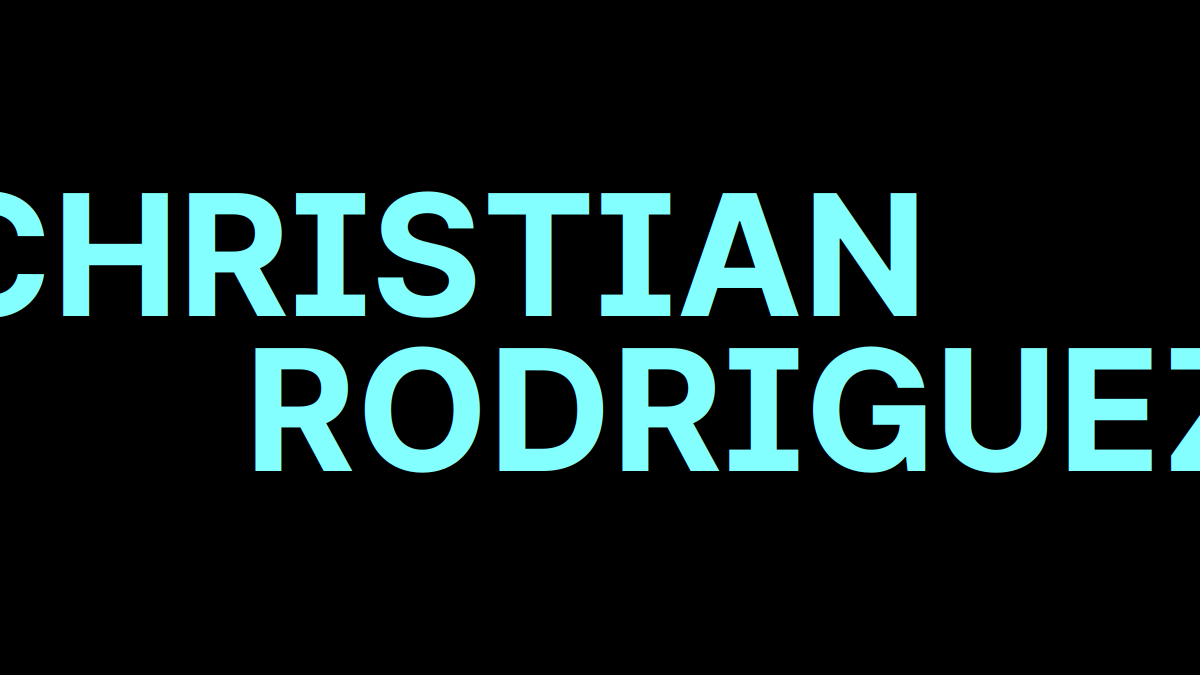
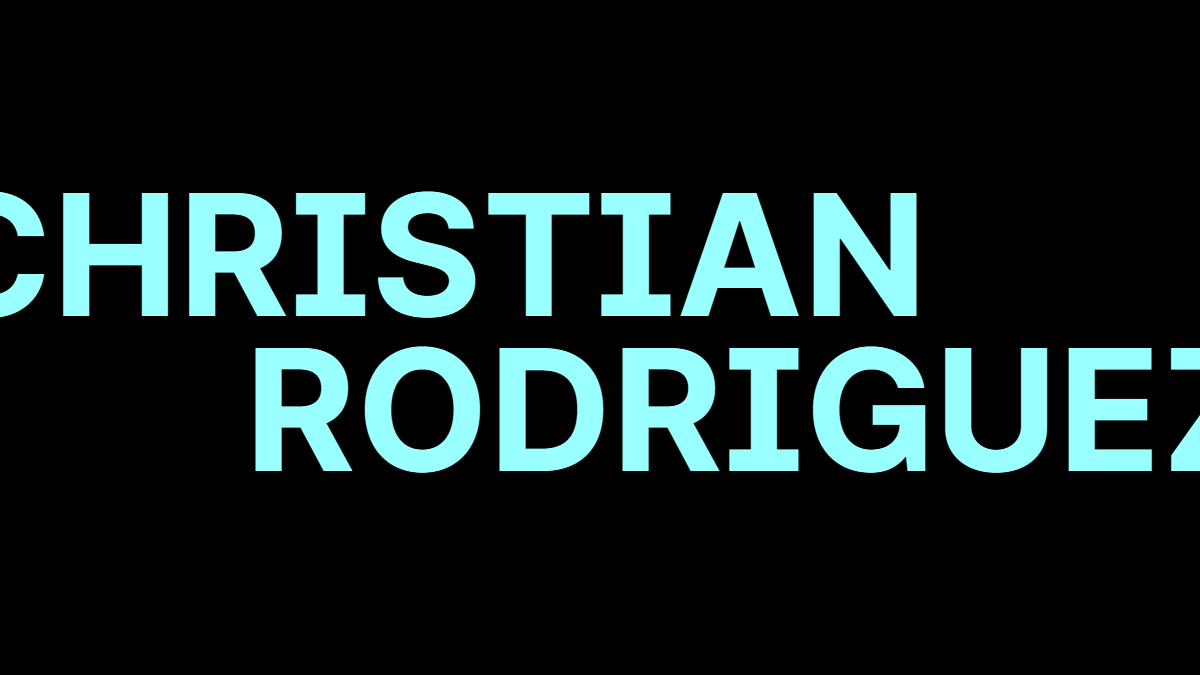
Convert colours to HSL and add VS Code files

diff --git a/styles/globals.css b/styles/globals.css
@@ -1,1 +1,1 @@
-@import"https://cdn.jsdelivr.net/npm/modern-normalize/modern-normalize.min.css";@import"https://rsms.me/inter/inter.css";.cr-background{color:#000}.cr-background-alt{color:#101010}.cr-accent{color:#84ffff}.cr-highlight{color:#00e676}.cr-grey{color:#aaa}.cr-red{color:#ff8a80}.cr-orange{color:#ffd180}.cr-yellow{color:#ffff8d}.cr-green{color:#b9f6ca}.cr-blue{color:#80d8ff}.cr-purple{color:#b388ff}.cr-disabled{color:#444}:root{font-family:"Inter",sans-serif}@supports(font-variation-settings: normal){:root{font-family:"Inter var",sans-serif}}body{background-color:#000;color:#fff;padding:25px;font-feature-settings:"ss01","ss03","ss04","cv01","cv10"}h1,h2,h3,h4,h5,h6{font-weight:bold;color:#84ffff}a{color:#fff}a:hover{color:#84ffff}abbr:hover{cursor:help}hr{border:1px solid #fff}figure{max-width:100%;display:block;margin-left:auto;margin-right:auto;flex-flow:column}figcaption{text-align:center;font-style:italic;font-size:small;padding:3px}img.cr-image{display:block;margin-left:auto;margin-right:auto;max-width:100%;margin-bottom:5px}.cr-wrapper{max-width:825px;margin:auto}.cr-list{margin:auto;text-align:justify;text-justify:inter-word}.cr-footer{color:#fff;padding:15px;padding-top:20px;padding-bottom:1px;margin-top:30px;margin-bottom:20px;text-decoration:none;display:inline-block;width:100%;border-top:2px solid #fff}.cr-link-external::after{font-family:"tabler-icons";font-style:normal;font-weight:400;content:" "}.cr-block{background-color:#101010;padding:15px;margin-top:20px;margin-bottom:20px;text-decoration:none;display:inline-block;width:100%;border-radius:0px}.cr-site-name{font-size:32pt;font-weight:400}.cr-footnote{font-size:small}.cr-cc-icon{font-size:22pt;user-select:none}.cr-paragraph{color:#fff;margin-bottom:4px;display:inline-block;width:100%}.cr-button{background-color:#fff;color:#000;padding:15px;margin-top:20px;margin-bottom:20px;text-decoration:none;display:inline-block;width:100%;border-radius:0px}.cr-button:hover{background-color:#84ffff;color:#000}.cr-button-icon{float:right}.cr-header{color:#84ffff;font-size:x-large;font-weight:normal;margin:35px 0px 30px 0px}.cr-header-image{width:32px;height:32px;margin-bottom:16px}.cr-notice{background:repeating-linear-gradient(-45deg, #c62828, #c62828 10px, #b71c1c 10px, #b71c1c 20px);color:#fff;padding:15px;margin-top:20px;margin-bottom:20px;display:inline-block;width:100%}.cr-notice-title{color:#fff}.cr-header-link{text-decoration:none;color:#84ffff}.cr-a11y-icon{float:right;color:#84ffff}.cr-a11y-desc{clip:rect(0 0 0 0);clip-path:inset(50%);height:1px;overflow:hidden;position:absolute;white-space:nowrap;width:1px}:focus-visible{outline:#00e676 dashed 5px}/*# sourceMappingURL=globals.css.map */
+@import"https://cdn.jsdelivr.net/npm/modern-normalize/modern-normalize.min.css";@import"https://rsms.me/inter/inter.css";.cr-background{color:#000}.cr-background-alt{color:#0d0d0d}.cr-accent{color:#9ff}.cr-highlight{color:#00e639}.cr-grey{color:#a6a6a6}.cr-red{color:#f99}.cr-orange{color:#fc9}.cr-yellow{color:#ff9}.cr-green{color:#a5f3b8}.cr-blue{color:#99b3ff}.cr-purple{color:#c9f}.cr-disabled{color:#404040}:root{font-family:"Inter",sans-serif}@supports(font-variation-settings: normal){:root{font-family:"Inter var",sans-serif}}body{background-color:#000;color:#fff;padding:25px;font-feature-settings:"ss01","ss03","ss04","cv01","cv10"}h1,h2,h3,h4,h5,h6{font-weight:bold;color:#9ff}a{color:#fff}a:hover{color:#9ff}abbr:hover{cursor:help}hr{border:1px solid #fff}figure{max-width:100%;display:block;margin-left:auto;margin-right:auto;flex-flow:column}figcaption{text-align:center;font-style:italic;font-size:small;padding:3px}img.cr-image{display:block;margin-left:auto;margin-right:auto;max-width:100%;margin-bottom:5px}.cr-wrapper{max-width:825px;margin:auto}.cr-list{margin:auto;text-align:justify;text-justify:inter-word}.cr-footer{color:#fff;padding:15px;padding-top:20px;padding-bottom:1px;margin-top:30px;margin-bottom:20px;text-decoration:none;display:inline-block;width:100%;border-top:2px solid #fff}.cr-link-external::after{font-family:"tabler-icons";font-style:normal;font-weight:400;content:" "}.cr-block{background-color:#0d0d0d;padding:15px;margin-top:20px;margin-bottom:20px;text-decoration:none;display:inline-block;width:100%;border-radius:0px}.cr-site-name{font-size:32pt;font-weight:400}.cr-footnote{font-size:small}.cr-cc-icon{font-size:22pt;user-select:none}.cr-paragraph{color:#fff;margin-bottom:4px;display:inline-block;width:100%}.cr-button{background-color:#fff;color:#000;padding:15px;margin-top:20px;margin-bottom:20px;text-decoration:none;display:inline-block;width:100%;border-radius:0px}.cr-button:hover{background-color:#9ff;color:#000}.cr-button-icon{float:right}.cr-header{color:#9ff;font-size:x-large;font-weight:normal;margin:35px 0px 30px 0px}.cr-header-image{width:32px;height:32px;margin-bottom:16px}.cr-notice{background:repeating-linear-gradient(-45deg, hsl(0, 65%, 35%), hsl(0, 65%, 35%) 10px, hsl(0, 75%, 25%) 10px, hsl(0, 75%, 25%) 20px);color:#fff;padding:15px;margin-top:20px;margin-bottom:20px;display:inline-block;width:100%}.cr-notice-title{color:#fff}.cr-header-link{text-decoration:none;color:#9ff}.cr-a11y-icon{float:right;color:#9ff}.cr-a11y-desc{clip:rect(0 0 0 0);clip-path:inset(50%);height:1px;overflow:hidden;position:absolute;white-space:nowrap;width:1px}:focus-visible{outline:#00e639 dashed 5px}/*# sourceMappingURL=globals.css.map */

diff --git a/styles/src/main.scss b/styles/src/main.scss
@@ -1,55 +1,55 @@
 @import url("https://cdn.jsdelivr.net/npm/modern-normalize/modern-normalize.min.css");
 @import url("https://rsms.me/inter/inter.css");
 
-$bg: #000000;
-$bg2: #101010;
-$accent: #84ffff;
-$highlight: #00e676;
-$fg: #ffffff;
-$grey: #aaaaaa;
-$red: #ff8a80;
-$orange: #ffd180;
-$yellow: #ffff8d;
-$green: #b9f6ca;
-$blue: #80d8ff;
-$purple: #b388ff;
-$disabled: #444444;
+$colour-b1: hsl(0 0% 0%);
+$colour-b2: hsl(0 0% 5%);
+$colour-f1: hsl(0 0% 100%);
+$colour-f2: hsl(180 100% 80%);
+$colour-f3: hsl(135 100% 45%);
+$colour-no: hsl(0 0% 65%);
+$colour-re: hsl(0 100% 80%);
+$colour-or: hsl(30 100% 80%);
+$colour-yl: hsl(60 100% 80%);
+$colour-gr: hsl(135 77% 80%);
+$colour-bl: hsl(225 100% 80%);
+$colour-pr: hsl(270 100% 80%);
+$colour-xx: hsl(0 0% 25%);
 
 .cr-background {
-  color: $bg;
+  color: $colour-b1;
 }
 .cr-background-alt {
-  color: $bg2;
+  color: $colour-b2;
 }
 .cr-accent {
-  color: $accent;
+  color: $colour-f2;
 }
 .cr-highlight {
-  color: $highlight;
+  color: $colour-f3;
 }
 .cr-grey {
-  color: $grey;
+  color: $colour-no;
 }
 .cr-red {
-  color: $red;
+  color: $colour-re;
 }
 .cr-orange {
-  color: $orange;
+  color: $colour-or;
 }
 .cr-yellow {
-  color: $yellow;
+  color: $colour-yl;
 }
 .cr-green {
-  color: $green;
+  color: $colour-gr;
 }
 .cr-blue {
-  color: $blue;
+  color: $colour-bl;
 }
 .cr-purple {
-  color: $purple;
+  color: $colour-pr;
 }
 .cr-disabled {
-  color: $disabled;
+  color: $colour-xx;
 }
 
 :root {
@@ -62,8 +62,8 @@ $disabled: #444444;
 }
 
 body {
-  background-color: $bg;
-  color: $fg;
+  background-color: $colour-b1;
+  color: $colour-f1;
   padding: 25px;
   font-feature-settings: "ss01", "ss03", "ss04", "cv01", "cv10";
 }
@@ -75,15 +75,15 @@ h4,
 h5,
 h6 {
   font-weight: bold;
-  color: $accent;
+  color: $colour-f2;
 }
 
 a {
-  color: $fg;
+  color: $colour-f1;
 }
 
 a:hover {
-  color: $accent;
+  color: $colour-f2;
 }
 
 abbr:hover {
@@ -91,7 +91,7 @@ abbr:hover {
 }
 
 hr {
-  border: 1px solid $fg;
+  border: 1px solid $colour-f1;
 }
 
 figure {
@@ -129,7 +129,7 @@ img.cr-image {
 }
 
 .cr-footer {
-  color: $fg;
+  color: $colour-f1;
   padding: 15px;
   padding-top: 20px;
   padding-bottom: 1px;
@@ -138,7 +138,7 @@ img.cr-image {
   text-decoration: none;
   display: inline-block;
   width: 100%;
-  border-top: 2px solid $fg;
+  border-top: 2px solid $colour-f1;
 }
 
 .cr-link-external::after {
@@ -149,7 +149,7 @@ img.cr-image {
 }
 
 .cr-block {
-  background-color: $bg2;
+  background-color: $colour-b2;
   padding: 15px;
   margin-top: 20px;
   margin-bottom: 20px;
@@ -174,15 +174,15 @@ img.cr-image {
 }
 
 .cr-paragraph {
-  color: $fg;
+  color: $colour-f1;
   margin-bottom: 4px;
   display: inline-block;
   width: 100%;
 }
 
 .cr-button {
-  background-color: $fg;
-  color: $bg;
+  background-color: $colour-f1;
+  color: $colour-b1;
   padding: 15px;
   margin-top: 20px;
   margin-bottom: 20px;
@@ -193,8 +193,8 @@ img.cr-image {
 }
 
 .cr-button:hover {
-  background-color: $accent;
-  color: $bg;
+  background-color: $colour-f2;
+  color: $colour-b1;
 }
 
 .cr-button-icon {
@@ -202,7 +202,7 @@ img.cr-image {
 }
 
 .cr-header {
-  color: $accent;
+  color: $colour-f2;
   font-size: x-large;
   font-weight: normal;
   margin: 35px 0px 30px 0px;
@@ -217,10 +217,10 @@ img.cr-image {
 .cr-notice {
   background: repeating-linear-gradient(
     -45deg,
-    #c62828,
-    #c62828 10px,
-    #b71c1c 10px,
-    #b71c1c 20px
+    hsl(0 65% 35%),
+    hsl(0 65% 35%) 10px,
+    hsl(0 75% 25%) 10px,
+    hsl(0 75% 25%) 20px
   );
   color: #ffffff;
   padding: 15px;
@@ -231,17 +231,17 @@ img.cr-image {
 }
 
 .cr-notice-title {
-  color: $fg;
+  color: $colour-f1;
 }
 
 .cr-header-link {
   text-decoration: none;
-  color: $accent;
+  color: $colour-f2;
 }
 
 .cr-a11y-icon {
   float: right;
-  color: $accent;
+  color: $colour-f2;
 }
 
 .cr-a11y-desc {
@@ -255,5 +255,5 @@ img.cr-image {
 }
 
 :focus-visible {
-  outline: $highlight dashed 5px;
+  outline: $colour-f3 dashed 5px;
 }
